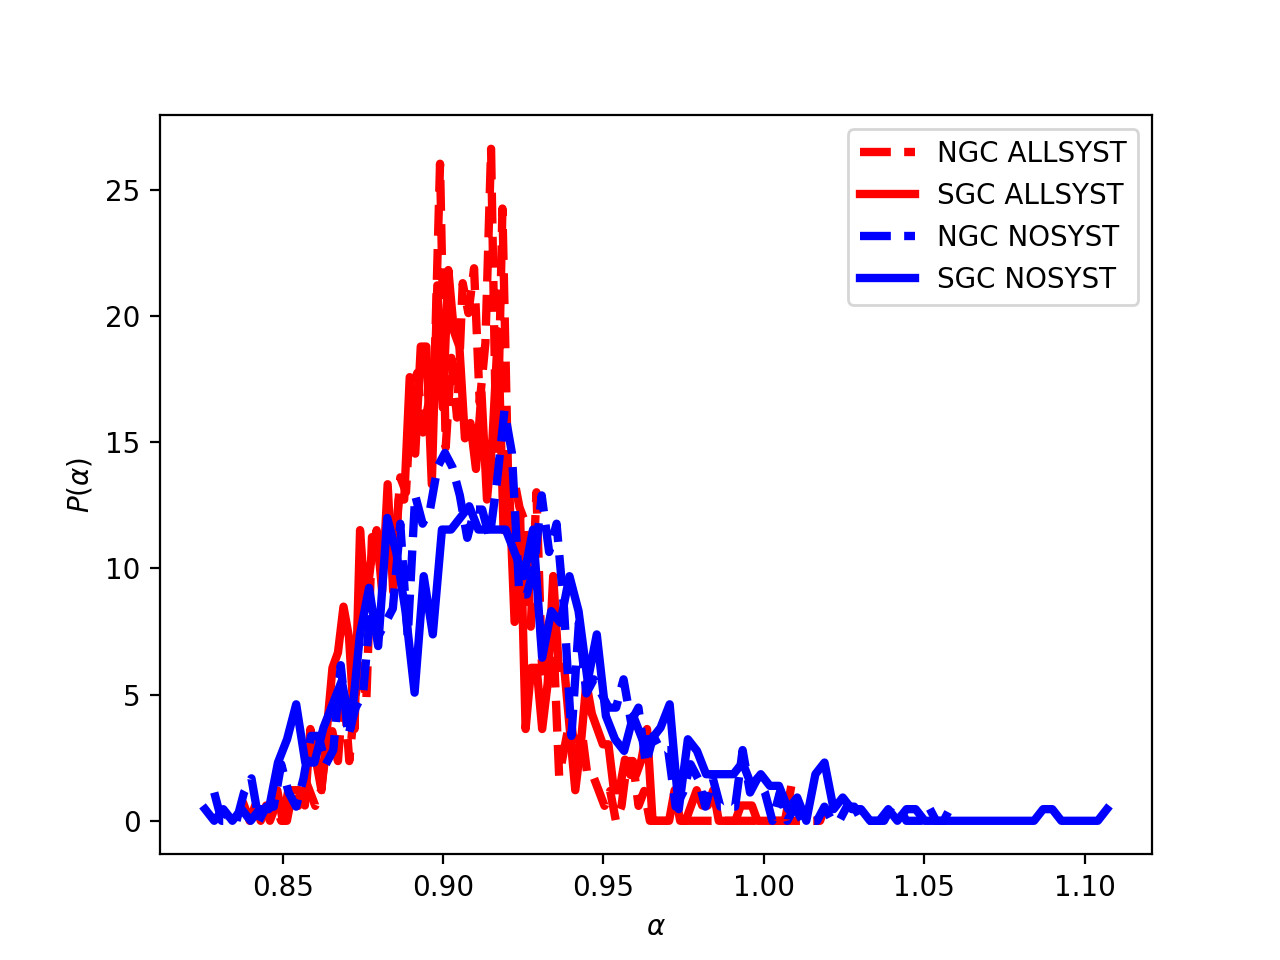
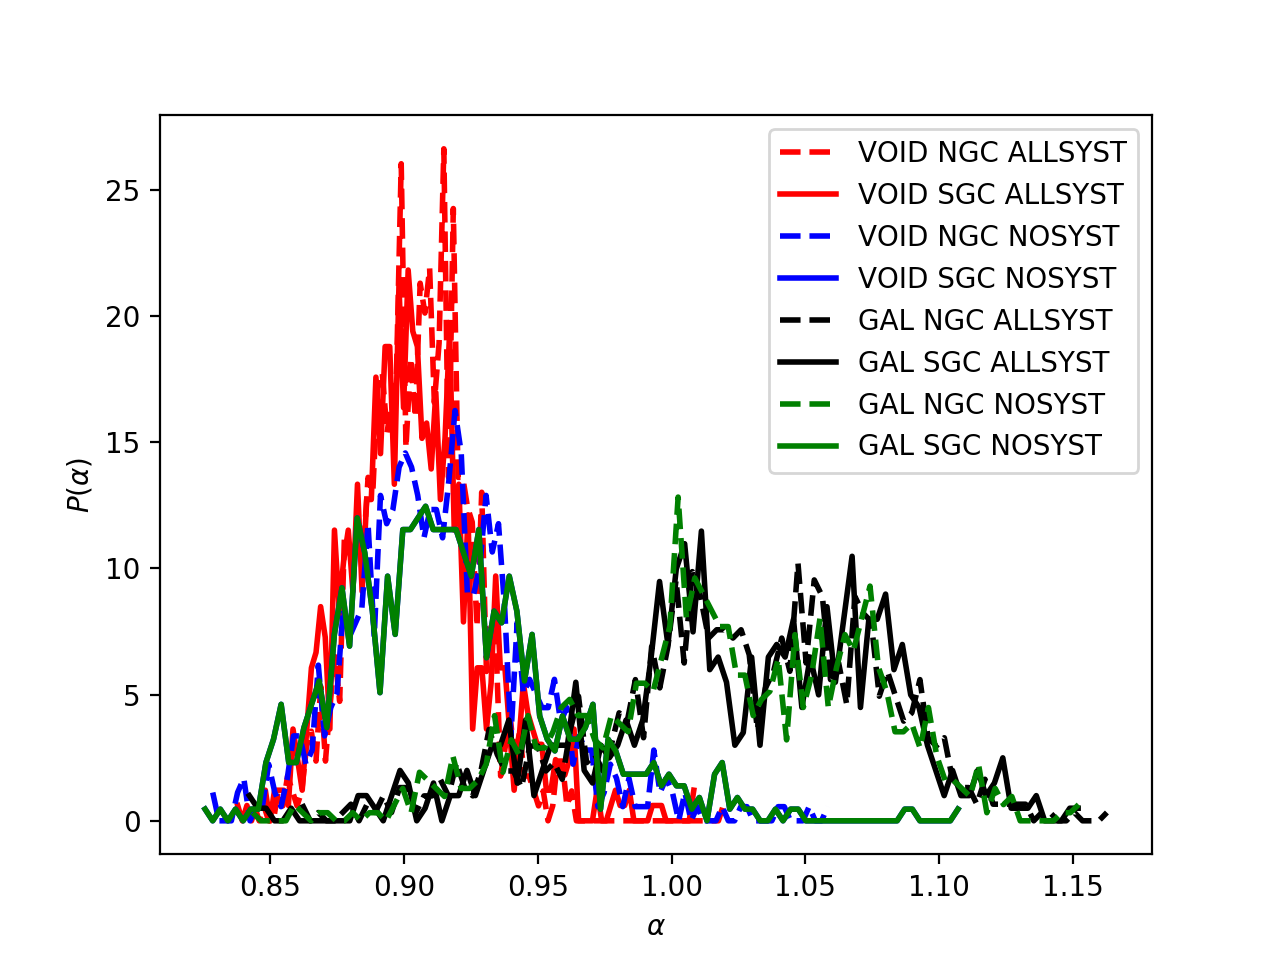
Included alpha dists for galaxies.

diff --git a/src/baofit/plot_alpha_dist.py b/src/baofit/plot_alpha_dist.py
@@ -16,20 +16,36 @@ void_all_ngc = os.path.join(VOID_ALL, 'alpha_hist_ngc.dat')
 void_all_sgc = os.path.join(VOID_ALL, 'alpha_hist_sgc.dat')
 void_no_ngc = os.path.join(VOID_NO, 'alpha_hist_ngc.dat')
 void_no_sgc = os.path.join(VOID_NO, 'alpha_hist_sgc.dat')
-hist_all_ngc = np.loadtxt(void_all_ngc)
-hist_all_sgc = np.loadtxt(void_all_sgc)
-hist_no_ngc = np.loadtxt(void_no_ngc)
-hist_no_sgc = np.loadtxt(void_no_sgc)
+void_hist_all_ngc = np.loadtxt(void_all_ngc)
+void_hist_all_sgc = np.loadtxt(void_all_sgc)
+void_hist_no_ngc = np.loadtxt(void_no_ngc)
+void_hist_no_sgc = np.loadtxt(void_no_sgc)
 
+GAL_ALL = os.path.join(WORKDIR, 'results/allsyst_v7/baofit/individual_gal/')
+GAL_NO = os.path.join(WORKDIR, 'results/nosyst_v7/baofit/individual_gal/')
+gal_all_ngc = os.path.join(GAL_ALL, 'alpha_hist_ngc.dat')
+gal_all_sgc = os.path.join(GAL_ALL, 'alpha_hist_sgc.dat')
+gal_no_ngc = os.path.join(GAL_NO, 'alpha_hist_ngc.dat')
+gal_no_sgc = os.path.join(GAL_NO, 'alpha_hist_sgc.dat')
+gal_hist_all_ngc = np.loadtxt(gal_all_ngc)
+gal_hist_all_sgc = np.loadtxt(gal_all_sgc)
+gal_hist_no_ngc = np.loadtxt(gal_no_ngc)
+gal_hist_no_sgc = np.loadtxt(void_no_sgc)
 def plot_cols(f, **kwargs):
 	plt.plot(f[:,0], f[:,1], **kwargs)
 
-plot_cols(hist_all_ngc, label = 'NGC ALLSYST', ls = '--', lw = 3, c = 'r')
-plot_cols(hist_all_sgc, label = 'SGC ALLSYST', ls = '-', lw = 3, c = 'r')
-plot_cols(hist_no_ngc, label = 'NGC NOSYST', ls = '--', lw = 3, c = 'b')
-plot_cols(hist_no_sgc, label = 'SGC NOSYST', ls = '-', lw = 3, c = 'b')
+plot_cols(void_hist_all_ngc, label = 'VOID NGC ALLSYST', ls = '--', lw = 2, c = 'r')
+plot_cols(void_hist_all_sgc, label = 'VOID SGC ALLSYST', ls = '-', lw = 2, c = 'r')
+plot_cols(void_hist_no_ngc, label = 'VOID NGC NOSYST', ls = '--', lw = 2, c = 'b')
+plot_cols(void_hist_no_sgc, label = 'VOID SGC NOSYST', ls = '-', lw = 2, c = 'b')
+
+plot_cols(gal_hist_all_ngc, label = 'GAL NGC ALLSYST', ls = '--', lw = 2, c = 'k')
+plot_cols(gal_hist_all_sgc, label = 'GAL SGC ALLSYST', ls = '-', lw = 2, c = 'k')
+plot_cols(gal_hist_no_ngc, label = 'GAL NGC NOSYST', ls = '--', lw = 2, c = 'g')
+plot_cols(gal_hist_no_sgc, label = 'GAL SGC NOSYST', ls = '-', lw = 2, c = 'g')
 plt.legend()
 plt.xlabel('$\\alpha$')
 plt.ylabel('$P(\\alpha)$')
 plt.gcf()
 plt.savefig(os.path.join(OUT_DIR, 'alpha_comparison_ALLvsNO.png'), dpi=200)
+print('Plot saved in %s '%os.path.join(OUT_DIR, 'alpha_comparison_ALLvsNO.png'))
